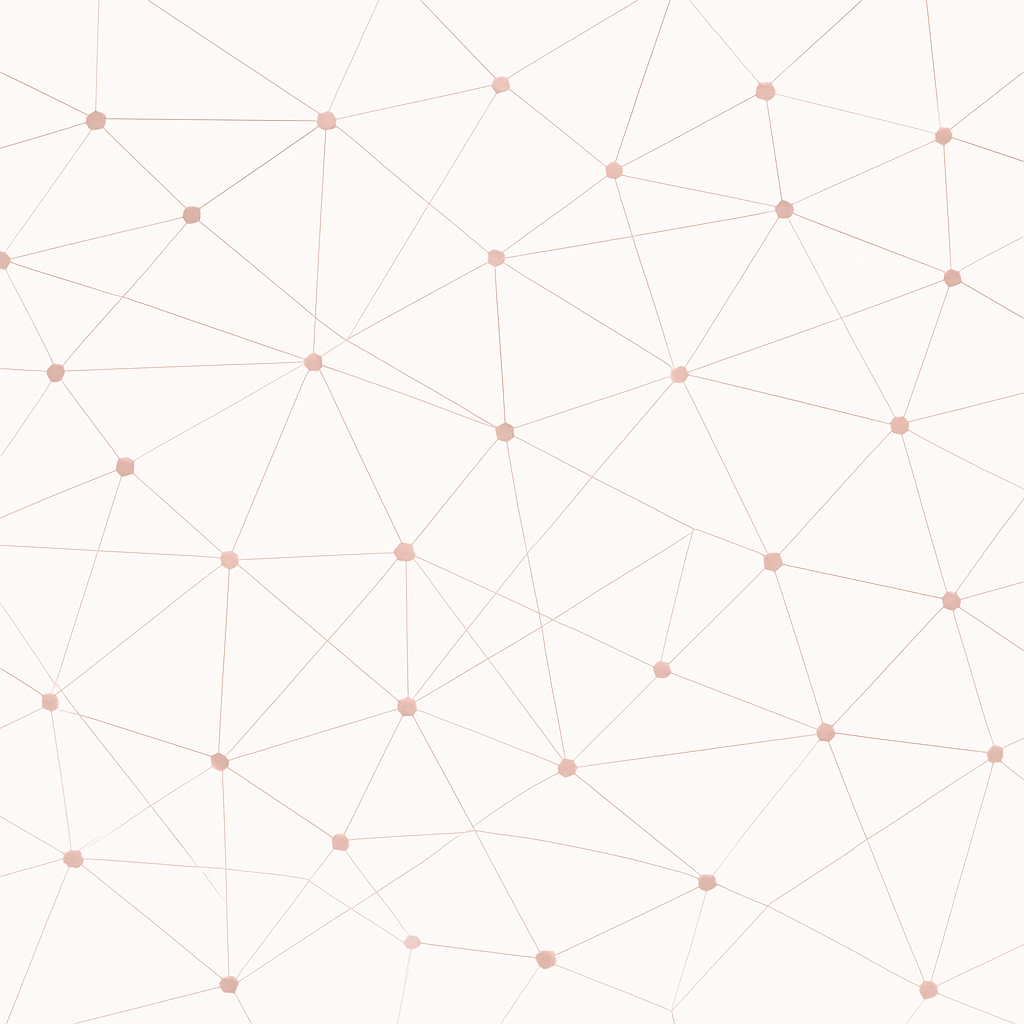
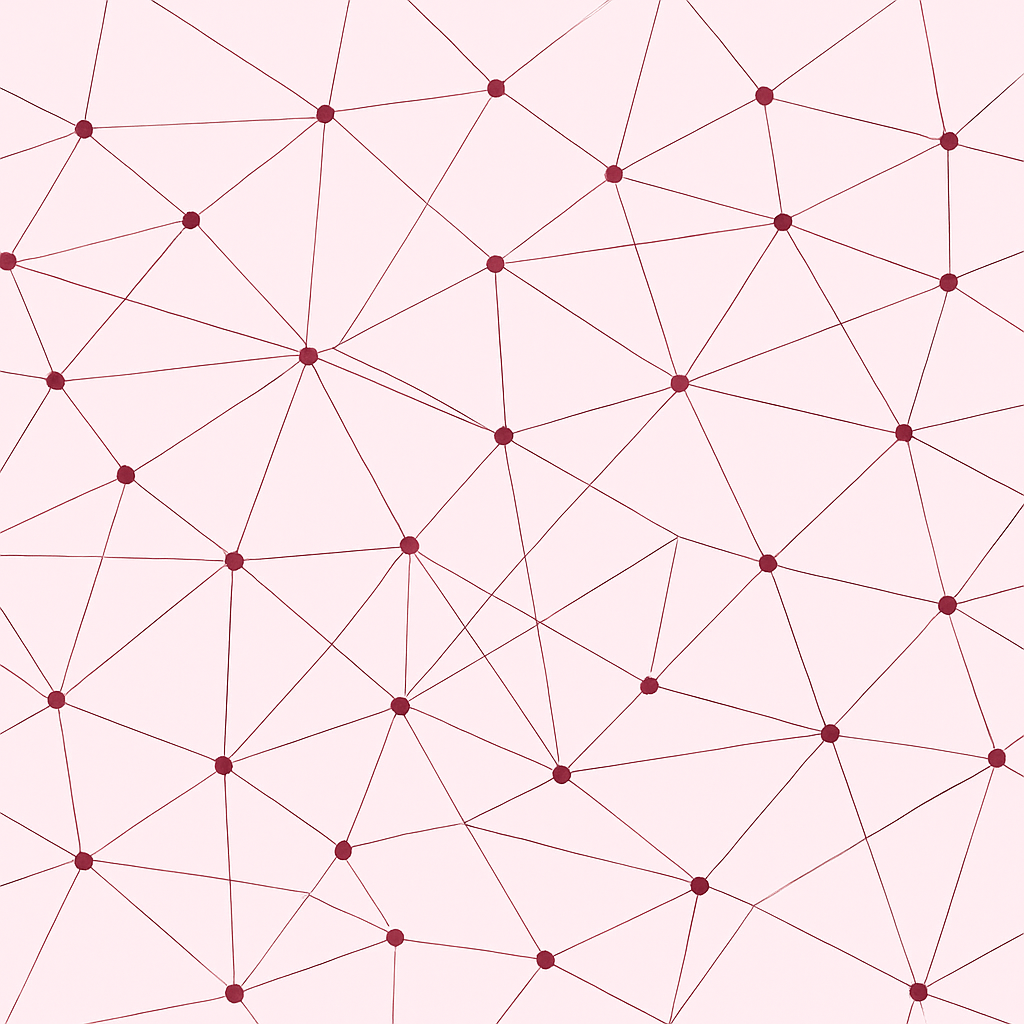
keep default background to dark mode if use wants they can change it to

diff --git a/src/components/layout/theme-switcher.tsx b/src/components/layout/theme-switcher.tsx
@@ -14,14 +14,11 @@ export function ThemeSwitcher() {
   useEffect(() => {
     setMounted(true);
     const storedTheme = localStorage.getItem('theme') as 'light' | 'dark' | null;
-    const systemPrefersDark = window.matchMedia('(prefers-color-scheme: dark)').matches;
 
     if (storedTheme) {
       setTheme(storedTheme);
-    } else if (systemPrefersDark) {
-      setTheme('dark');
     } else {
-      // Default to dark if no stored theme and no system preference for dark
+      // If no theme is stored in localStorage, default to 'dark'.
       setTheme('dark');
     }
   }, []);
